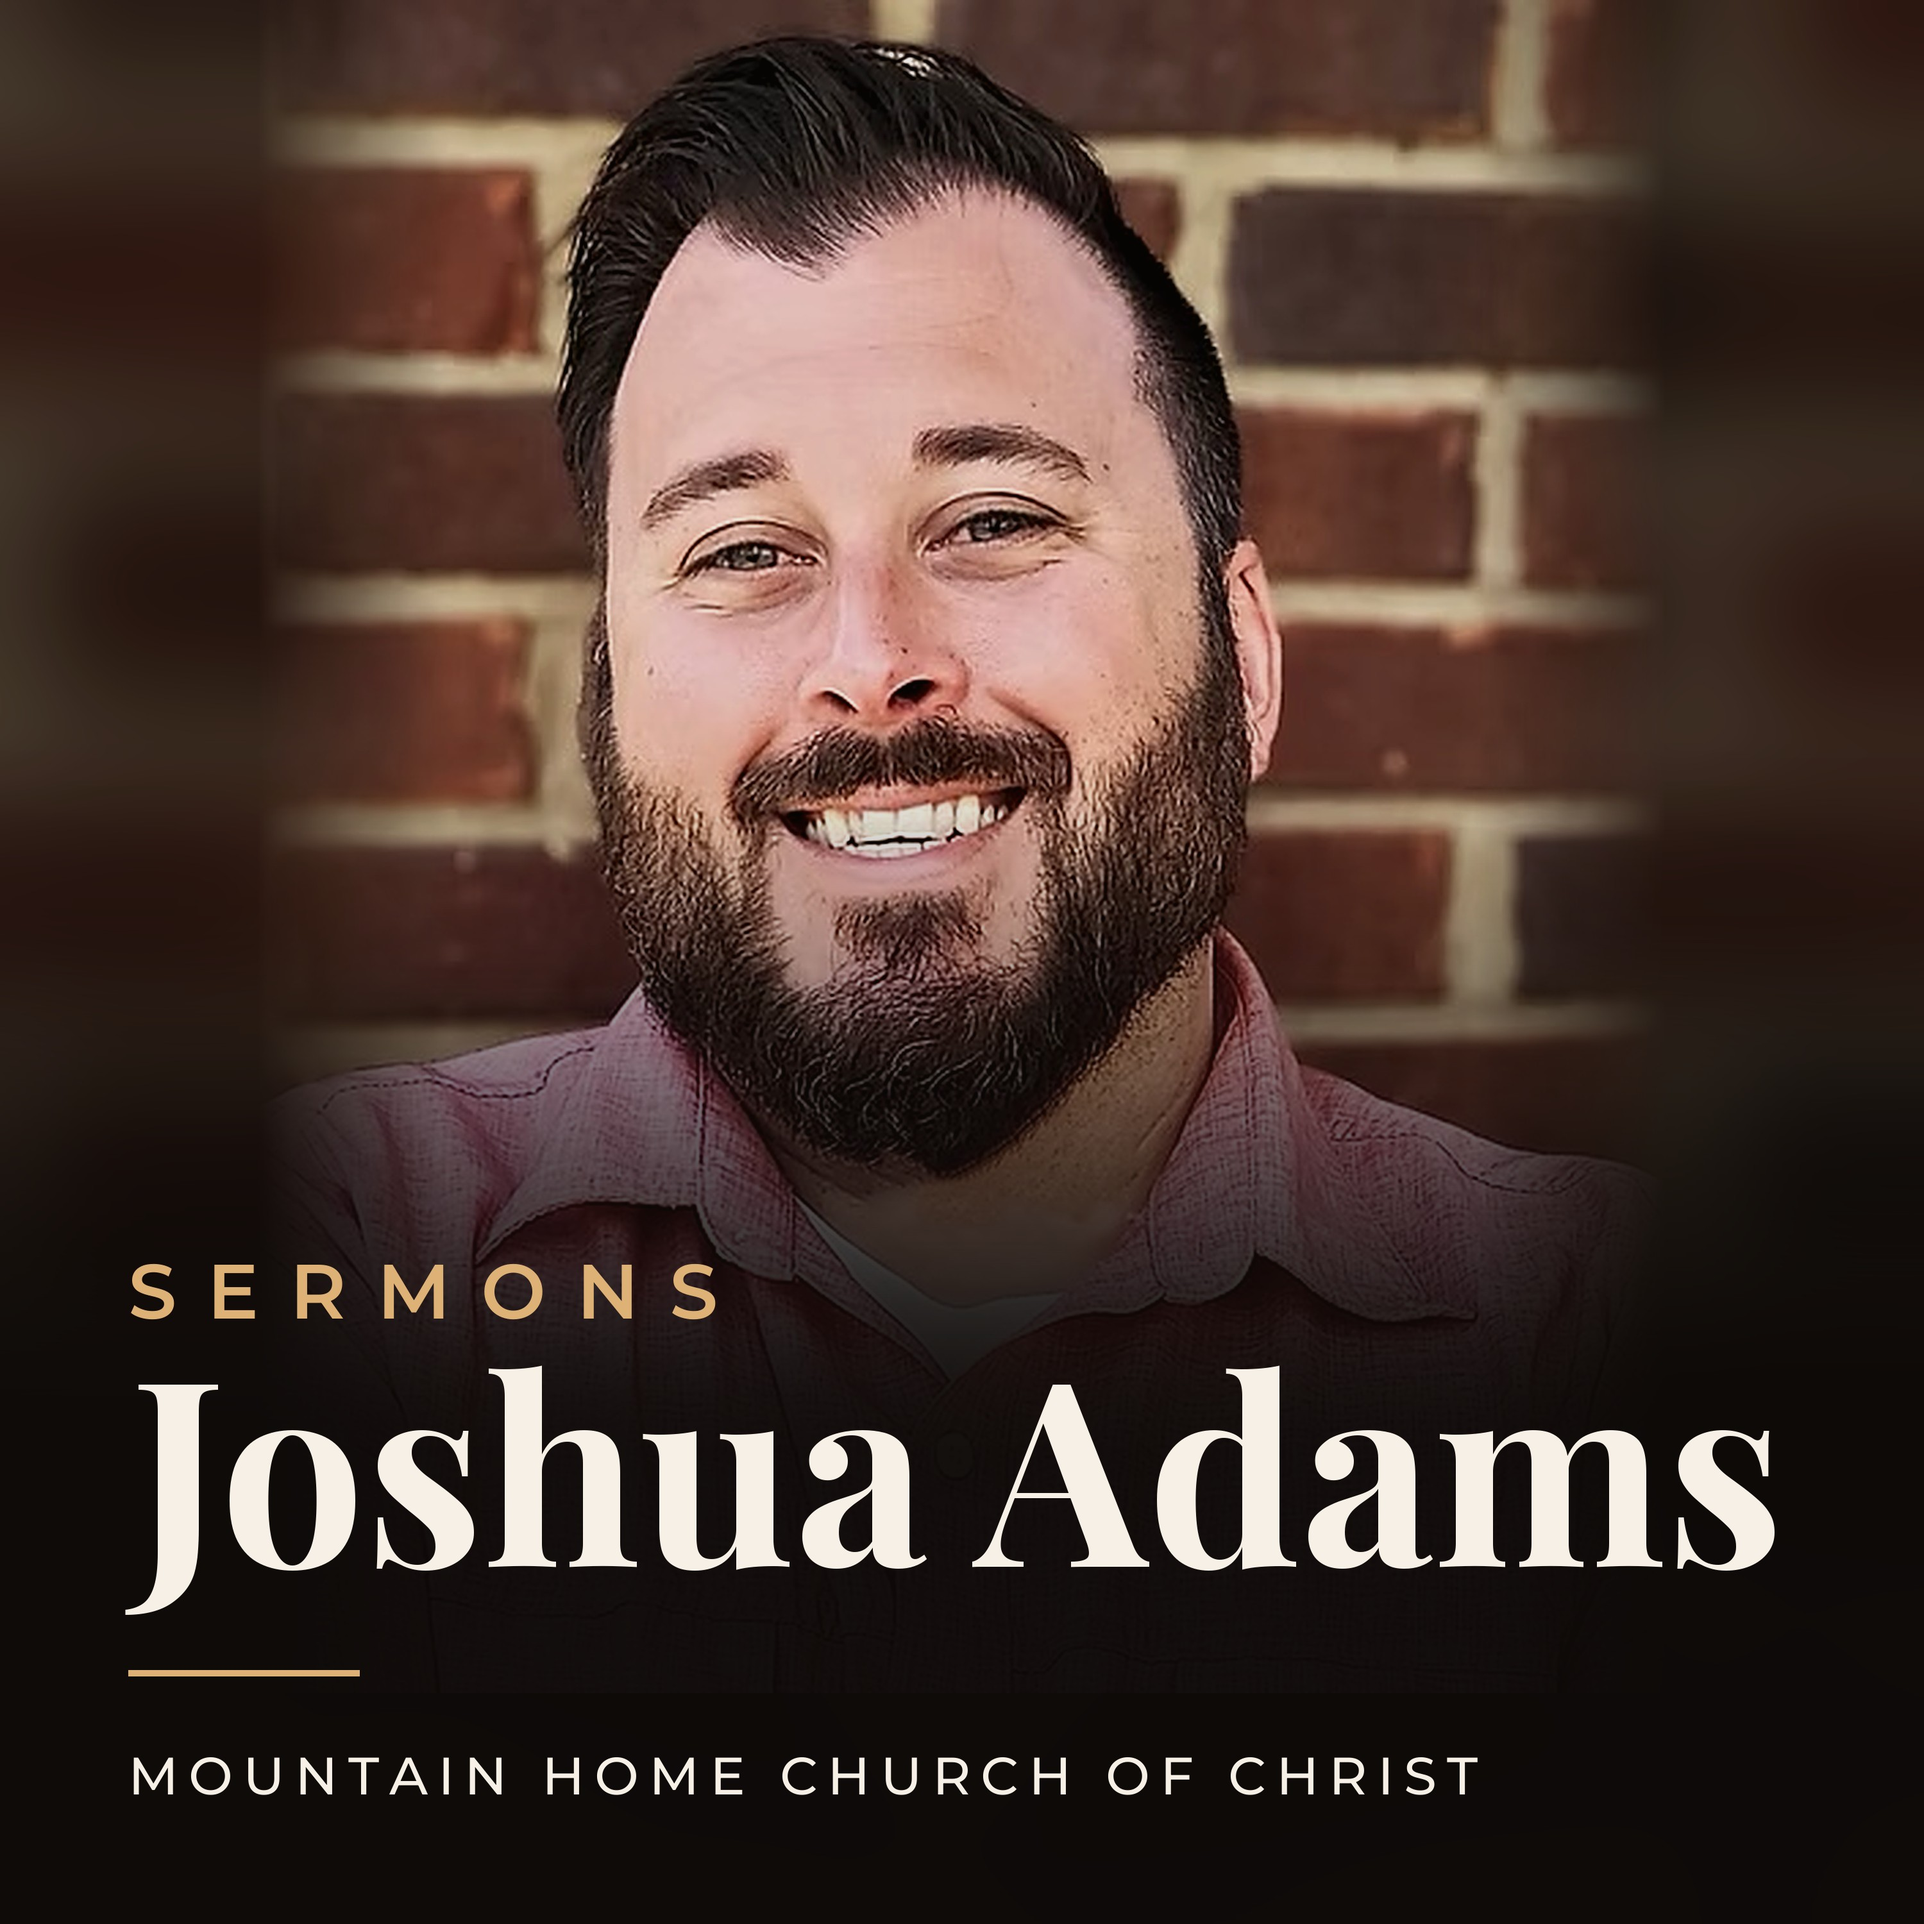
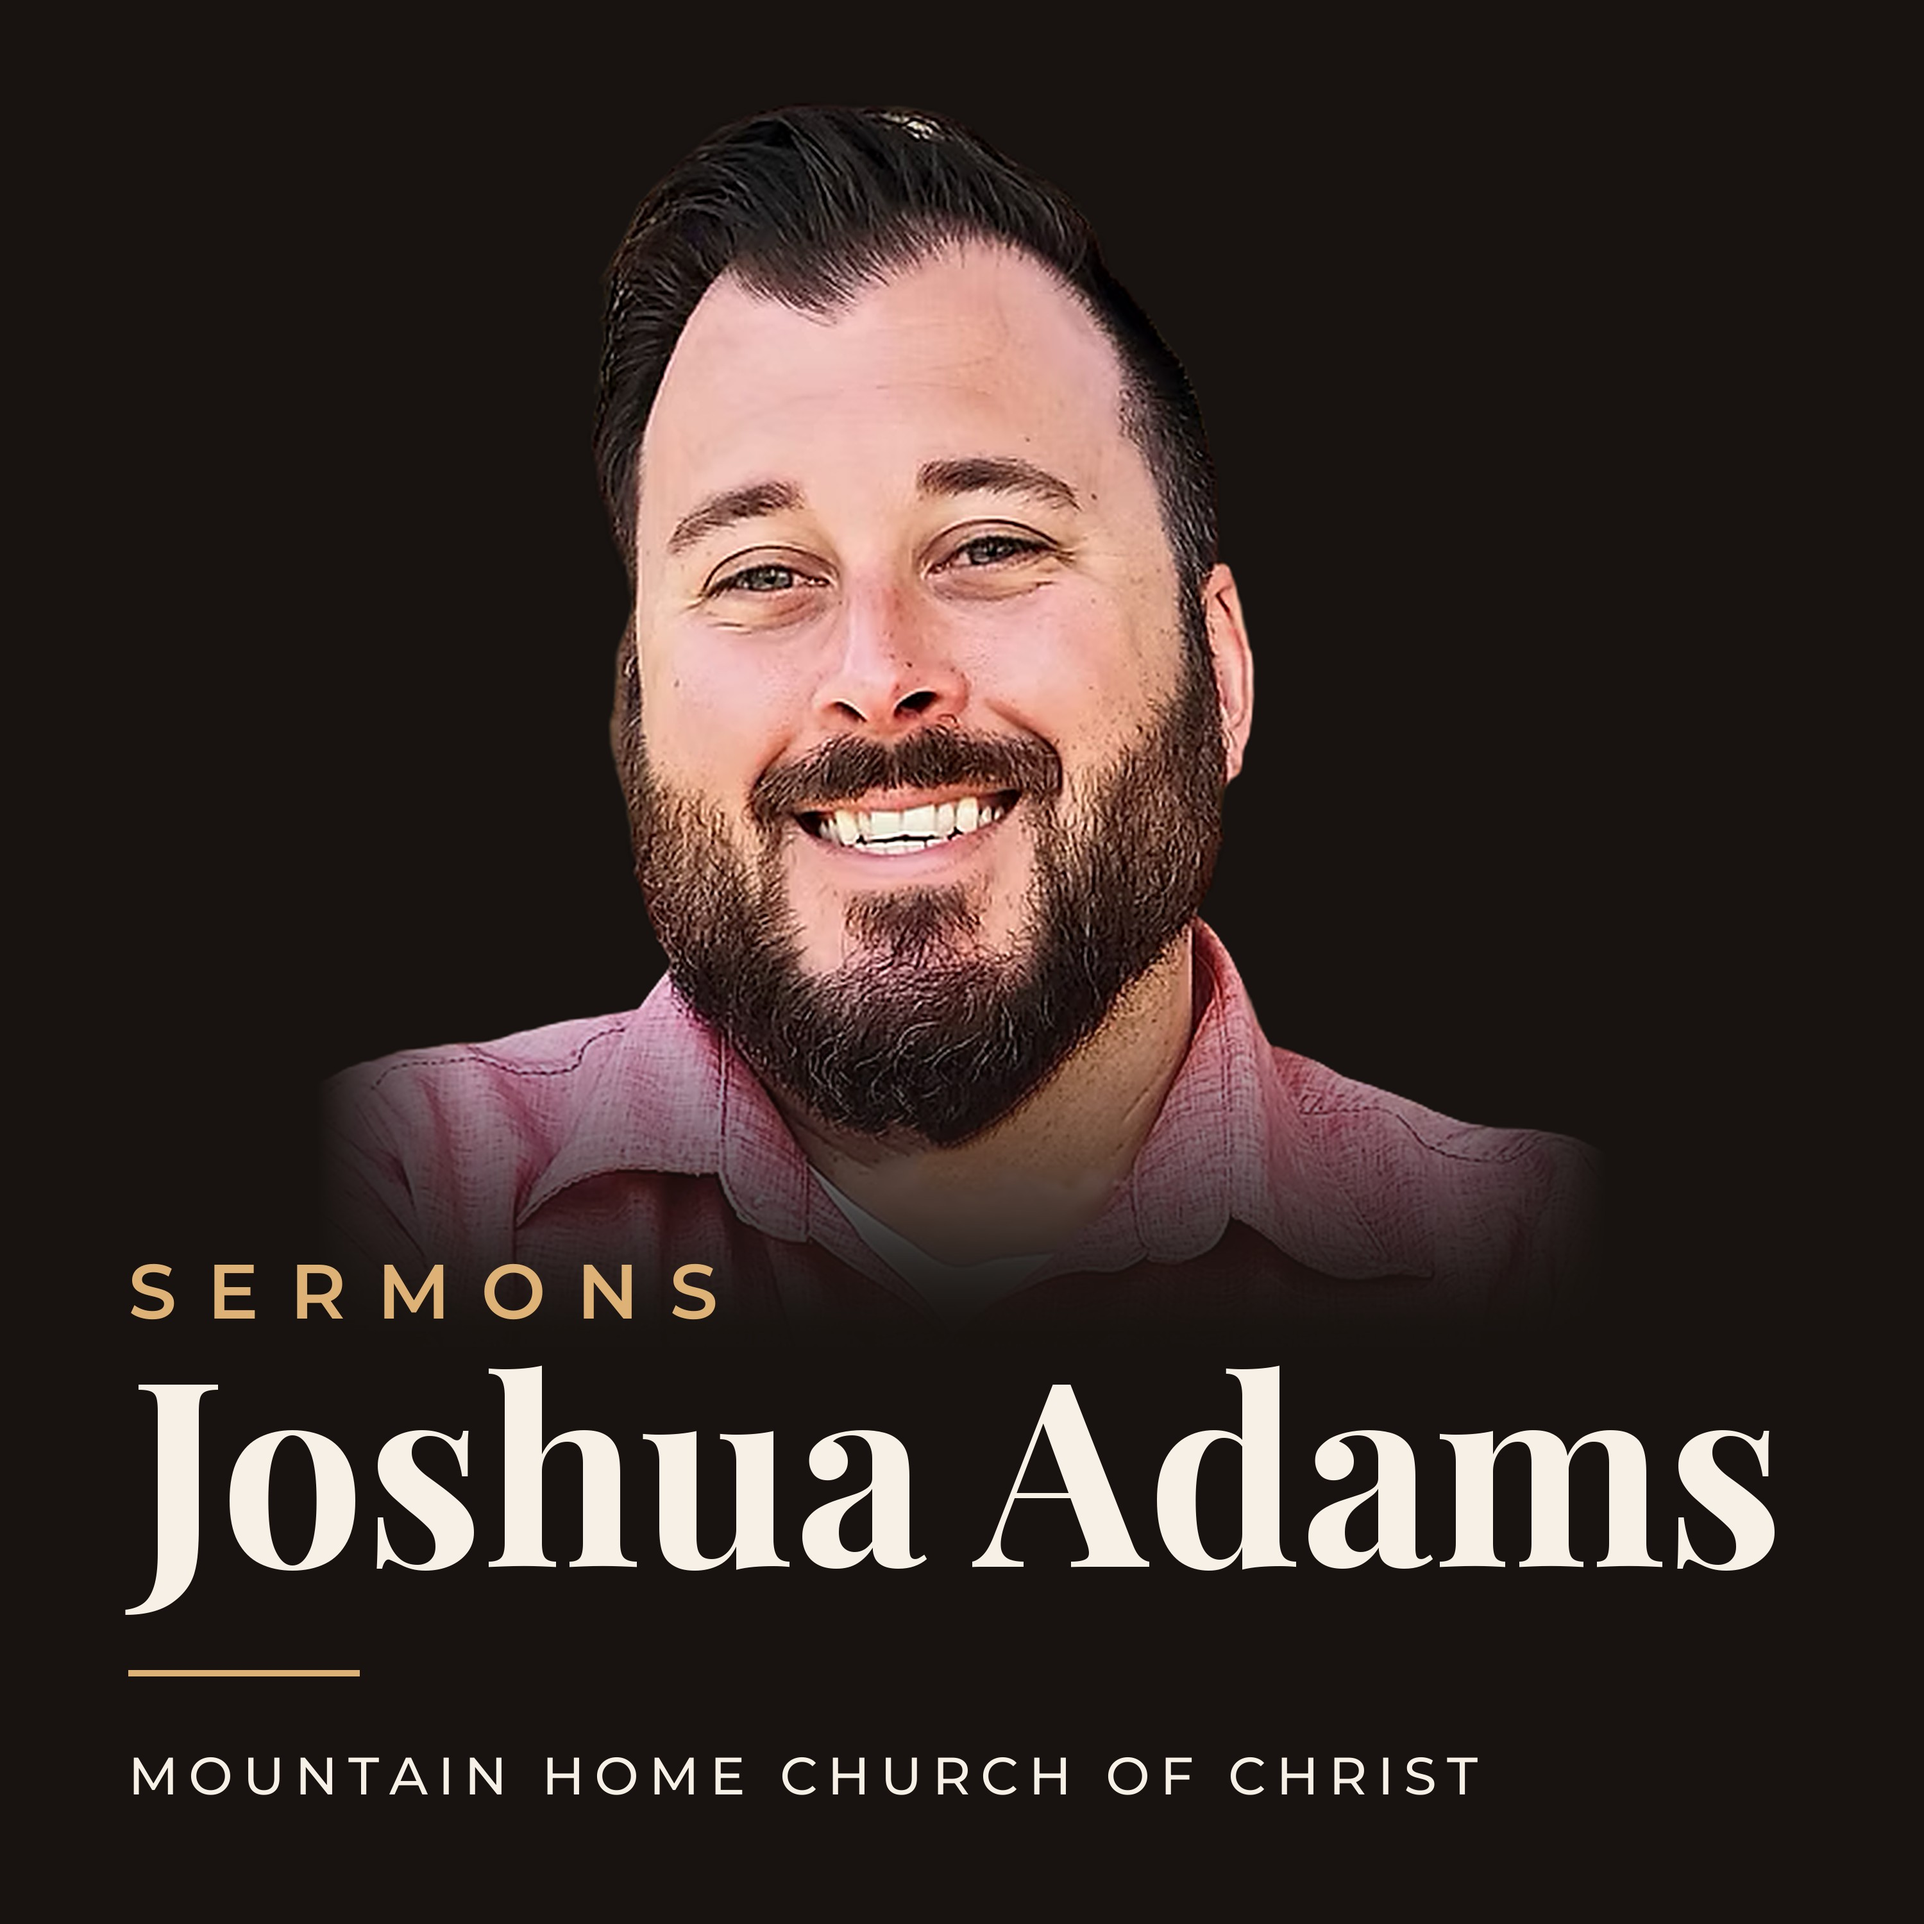
Cover: Joshua on a solid background
Cut him out of the brick-wall photo (BiRefNet portrait model) and add a
cutout layout to the cover generator: transparent PNGs are placed on a
solid warm near-black, with the frame-cut shoulders feathered away and the
fade completing before the title.

Claude-Session: https://claude.ai/code/session_01U2sRoM2q4qkR4KfNF6wXNG

diff --git a/sermonpod/cover.py b/sermonpod/cover.py
@@ -12,7 +12,7 @@ SIZE = 3000
 FONTS = Path(__file__).resolve().parent.parent / "cloud" / "fonts"
 GOLD = (222, 178, 118)
 CREAM = (247, 240, 230)
-SHADOW = (12, 9, 7)
+SHADOW = (24, 19, 16)   # background and fade colour: a warm near-black
 
 
 def _font(name: str, size: int, weight: int) -> ImageFont.FreeTypeFont:
@@ -57,6 +57,34 @@ def _fit_photo(photo: Image.Image, focus_y: float, height: float) -> Image.Image
     return bg
 
 
+def _has_cutout(photo: Image.Image) -> bool:
+    """True for a photo whose background has already been removed (transparent PNG)."""
+    return photo.mode in ("RGBA", "LA") and photo.getchannel("A").getextrema()[0] < 16
+
+
+def _place_cutout(photo: Image.Image, background: tuple, height: float) -> Image.Image:
+    """Put a cut-out subject on a solid background, top-centred. Where the photo's
+    own frame cuts him off (shoulders at the sides), feather it away so there are
+    no hard edges."""
+    photo = ImageOps.exif_transpose(photo).convert("RGBA")
+    photo = photo.crop(photo.getchannel("A").getbbox())
+    fh = int(SIZE * height)
+    fw = min(round(photo.width * fh / photo.height), SIZE)
+    subject = photo.resize((fw, fh), Image.LANCZOS)
+    subject = subject.filter(ImageFilter.UnsharpMask(radius=4, percent=50, threshold=2))
+
+    alpha = np.asarray(subject.getchannel("A"), dtype=np.float32)
+    feather = int(SIZE * 0.08)
+    edge = np.linspace(0, 1, feather, dtype=np.float32)
+    ramp = np.ones(fw, dtype=np.float32)
+    ramp[:feather], ramp[-feather:] = edge, edge[::-1]
+    subject.putalpha(Image.fromarray((alpha * ramp).astype(np.uint8)))
+
+    canvas = Image.new("RGB", (SIZE, SIZE), background)
+    canvas.paste(subject, ((SIZE - fw) // 2, int(SIZE * 0.05)), subject)
+    return canvas
+
+
 def _spaced(draw: ImageDraw.ImageDraw, text: str, font, tracking: float) -> float:
     return sum(draw.textlength(c, font=font) for c in text) + tracking * (len(text) - 1)
 
@@ -70,25 +98,31 @@ def _draw_spaced(draw, xy, text, font, fill, tracking):
 
 def make_cover(photo_path: Path, out_path: Path, *, kicker: str = "SERMONS", name: str = "Joshua Adams",
                footer: str = "MOUNTAIN HOME CHURCH OF CHRIST", focus_y: float = 0.2,
-               photo_height: float = 0.88) -> Path:
-    base = _fit_photo(Image.open(photo_path), focus_y, photo_height)
-    # quiet, warm photo so the type carries the design
-    base = ImageEnhance.Color(base).enhance(0.85)
-    base = ImageEnhance.Contrast(base).enhance(1.05)
-    warm = Image.new("RGB", base.size, (60, 40, 25))
-    base = Image.blend(base, warm, 0.10)
+               photo_height: float = 0.88, background: tuple = SHADOW) -> Path:
+    photo = Image.open(photo_path)
+    if _has_cutout(photo):
+        # smaller, and faded out before the title so the type sits on solid colour
+        base = _place_cutout(photo, background, photo_height * 0.9)
+        fade_start, fade_len, fade_max = 0.48, 0.22, 1.0
+    else:
+        fade_start, fade_len, fade_max = 0.36, 0.40, 0.97
+        base = _fit_photo(photo, focus_y, photo_height)
+        # quiet, warm photo so the type carries the design
+        base = ImageEnhance.Color(base).enhance(0.85)
+        base = ImageEnhance.Contrast(base).enhance(1.05)
+        base = Image.blend(base, Image.new("RGB", base.size, (60, 40, 25)), 0.10)
 
     # bottom gradient for the type, plus a soft vignette
     shade = Image.new("L", (1, SIZE))
     for y in range(SIZE):
-        t = min(1.0, max(0.0, (y - SIZE * 0.36) / (SIZE * 0.40)))
-        shade.putpixel((0, y), int(255 * 0.97 * t * t * (3 - 2 * t)))  # smoothstep
+        t = min(1.0, max(0.0, (y - SIZE * fade_start) / (SIZE * fade_len)))
+        shade.putpixel((0, y), int(255 * fade_max * t * t * (3 - 2 * t)))  # smoothstep
     shade = shade.resize((SIZE, SIZE))
     vignette = Image.new("L", (SIZE, SIZE), 0)
     ImageDraw.Draw(vignette).ellipse((-SIZE * 0.25, -SIZE * 0.3, SIZE * 1.25, SIZE * 1.15), fill=255)
     vignette = ImageOps.invert(vignette.filter(ImageFilter.GaussianBlur(SIZE * 0.12))).point(lambda v: v * 0.55)
     mask = Image.fromarray(np.maximum(np.asarray(shade), np.asarray(vignette)))
-    img = Image.composite(Image.new("RGB", base.size, SHADOW), base, mask)
+    img = Image.composite(Image.new("RGB", base.size, background), base, mask)
 
     draw = ImageDraw.Draw(img)
     margin = 200

diff --git a/tests/test_pipeline.py b/tests/test_pipeline.py
@@ -301,3 +301,18 @@ def test_cover_art_from_portrait(tmp_path):
     assert img.size == (3000, 3000) and img.format == "JPEG"
     # bottom band is darkened for the title; top keeps the photo
     assert sum(img.getpixel((1500, 2900))) < 120 < sum(img.getpixel((1500, 300)))
+
+
+def test_cover_art_from_cutout(tmp_path):
+    from PIL import Image, ImageDraw
+    from sermonpod.cover import SHADOW, make_cover
+
+    photo = tmp_path / "cutout.png"
+    img = Image.new("RGBA", (500, 600), (0, 0, 0, 0))  # transparent background
+    ImageDraw.Draw(img).ellipse((150, 40, 350, 300), fill=(200, 160, 130, 255))  # "head"
+    img.save(photo)
+    out = Image.open(make_cover(photo, tmp_path / "cover.jpg")).convert("RGB")
+    near = lambda px, ref: all(abs(a - b) <= 6 for a, b in zip(px, ref))
+    assert near(out.getpixel((60, 60)), SHADOW)          # solid background, no photo
+    assert not near(out.getpixel((1500, 700)), SHADOW)  # the subject is there
+    assert near(out.getpixel((2900, 2300)), SHADOW)     # title area is solid colour

diff --git a/README.md b/README.md
@@ -58,8 +58,10 @@ GitHub emails you, and notifies you in its app, if a run fails.
 the photo, and name it `photo.jpg` inside the `cloud` folder (`cloud/photo.jpg`).
 The next run turns it into 3000×3000 cover art: the photo full-bleed, with
 "SERMONS / Joshua Adams / Mountain Home church of Christ" set over a dark
-fade at the bottom. On a computer, `sermonpod cover photo.jpg` makes the
-same image locally.
+fade at the bottom. If the photo is a PNG with its background removed
+(`cloud/photo.png`, as it is now), he's placed on a solid dark background
+instead. On a computer, `sermonpod cover photo.png` makes the same image
+locally.
 
 **If YouTube blocks GitHub's servers** (the run fails with "found no videos" or
 "Sign in to confirm you're not a bot"), add your YouTube cookies. On any
